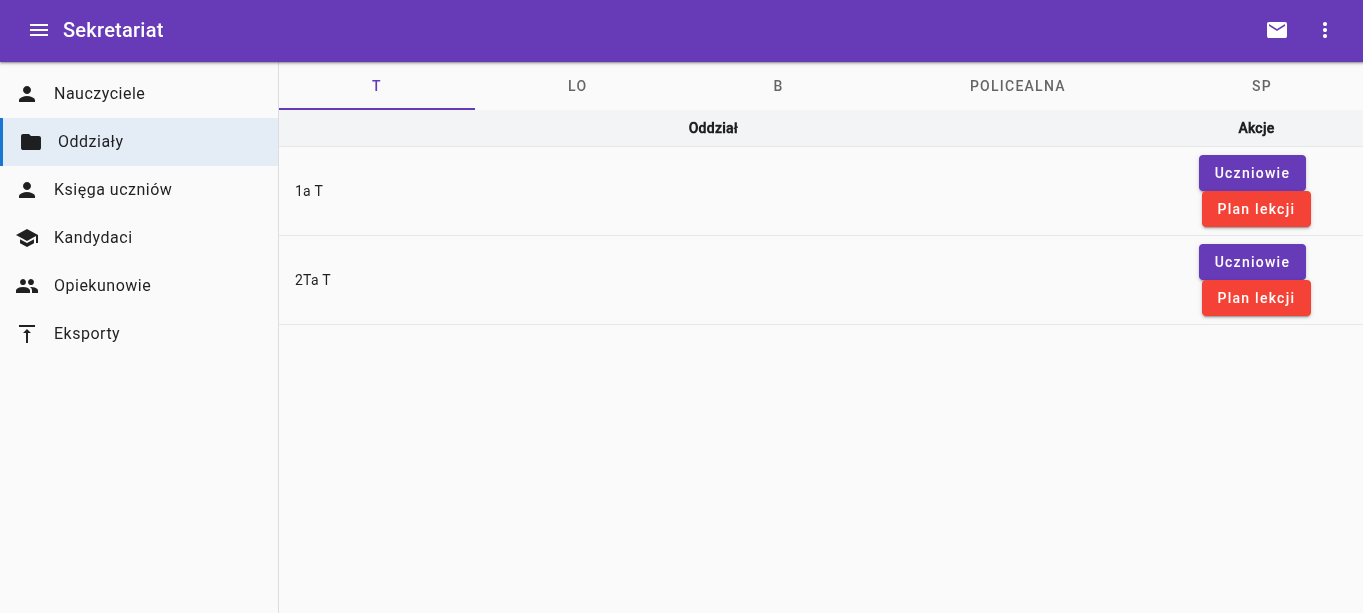
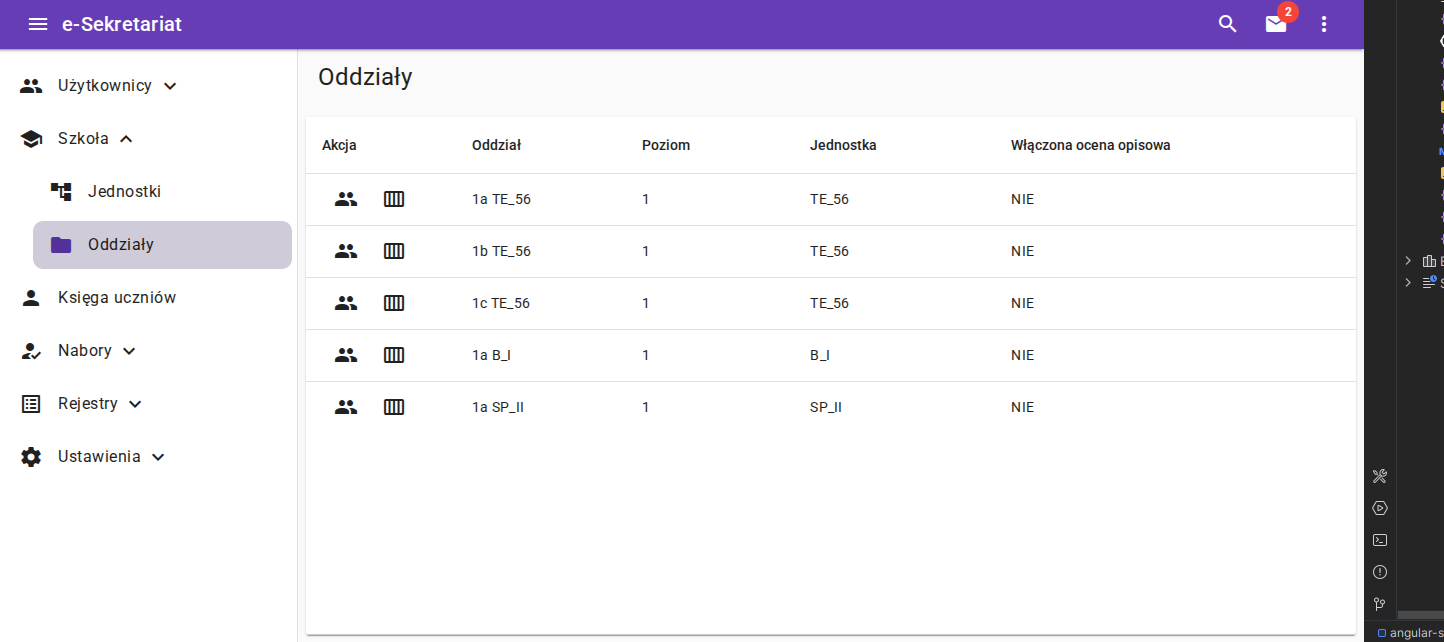
zmiany w readme.

diff --git a/README.md b/README.md
@@ -1,26 +1,115 @@
-# Sekretariat dla e-dziennika.
+Spoko, zrobię pełne, ludzkie README w **Markdown**, z opisami do zdjęć, bazując na ich nazwach i tym, co sugerują. Będzie przystępnie, z miniaturkami przy każdym punkcie, żeby od razu było wiadomo, co robi dana funkcja.
 
-## Funkcję dostępne:
-1. Dodanie / edycja ucznia.
-2. Dodanie / edycja rodzica.
-3. Wyświetlanie listy uczniów które są przypisane do klas, oraz są jako kandydaci - brak klasy.
-4. Wyświetlanie rodziców - powiązanych z uczniami, oraz nie powiązani z uczniami, także wszystkich opiekunów.
-5. Wyświetlanie oddziałow w jednostkach, oraz wyświetlenie w nich planu lekcji, oraz listę uczniów.
-6. Seryjnie dodanie do oddziału uczniów, usunięcie u nich ocen, frekwencji, usunięcie pobytu w szkole (historia przeniesień), zablokowanie dostępu do konta ucznia / rodzica.
+---
 
-## W planach zrobić:
-1. Edycja konta nauczyciela.
-2. Usunięcie konta nauczyciela.
-3. Wyświetlenie dodatkowych danych, np: przydziały, ilość wystawionych ocen, zastępst przydzielonych, ilość nie zrealizowanych lekcji (brak tematu, oraz frekwencji).
+# Sekretariat e-Dziennika
 
+Sekretariat to moduł wspierający zarządzanie uczniami, rodzicami i oddziałami w e-Dzienniku.
 
-## Uruchomienie aplikacji:
-```
+---
+
+## Funkcje dostępne
+
+### 1. Dodawanie i edycja uczniów
+
+* Możesz tworzyć nowe konta uczniów i poprawiać istniejące dane.
+* Obsługuje przypisywanie uczniów do klas i zarządzanie ich statusem (kandydaci bez klasy).
+  ![Dodawanie/edycja ucznia](public/photo/edycja_ucznia.png)
+* Przykładowe ekrany pokazujące wyszukiwanie ucznia i listę uczniów w oddziałach:
+  ![Wyszukiwanie ucznia](public/photo/wyszukaj_ucznia.png)
+  ![Lista uczniów w oddziale](public/photo/oddzialy_uczniowie.png)
+
+---
+
+### 2. Dodawanie i edycja rodziców / opiekunów
+
+* Możesz dodawać nowych rodziców i powiązywać ich z uczniami.
+* Obsługuje też wyświetlanie wszystkich opiekunów, zarówno powiązanych jak i niepowiązanych z uczniami.
+  ![Dodawanie rodzica](public/photo/opiekunowie_rodzice_edycja.png)
+  ![Lista opiekunów](public/photo/opiekunowie_rodzice.png)
+
+---
+
+### 3. Zarządzanie oddziałami i planami lekcji
+
+* Przeglądanie oddziałów w jednostkach edukacyjnych.
+* Wyświetlanie planu lekcji i listy uczniów przypisanych do oddziałów.
+  ![Plan lekcji oddziału](public/photo/oddzialy_plan_lekcji.png)
+  ![Lista uczniów w oddziale](public/photo/oddzialy_uczniowie.png)
+
+---
+
+### 4. Masowe operacje w oddziałach
+
+* Dodawanie uczniów seryjnie.
+* Usuwanie ocen, frekwencji i historii pobytu w szkole (np. przy przeniesieniach).
+* Blokowanie dostępu do kont uczniów i rodziców.
+  ![Seryjne dodawanie uczniów](public/photo/stara_ksiega_uczniow_dodawanie_uczniow_do_oddzialu.png)
+  ![Przykład operacji masowych](public/photo/stare_ksiega_uczniow_menu_kontekstowe.png)
+
+---
+
+### 5. Przegląd historii i dokumentów uczniów
+
+* Wyświetlanie rejestrów, np. kart rowerowych czy egzaminów.
+* Przydatne do sprawdzania uczniów, rejestr kart rowerowych itp.
+  ![Rejestry kart rowerowych](public/photo/rejestr_kart_rowerowych.png)
+  ![Rejestr egzaminów](public/photo/rejestr_egzaminow.png)
+
+---
+
+### 6. Obsługa naborów i kandydatów
+
+* Możliwość podglądu kandydatów na uczniów w jednostkach.
+* Wyświetlanie statusów rekrutacji i zakończonych procesów.
+  ![Nabory kandydatów](public/photo/nabory_kandydaci.png)
+  ![Zakończone rekrutacje](public/photo/nabory_kandydaci_zakonczenie_rekrutacji.png)
+  ![Oddziały i nabory](public/photo/nabory_oddzialy.png)
+
+---
+
+### 7. Pracownicy i zarządzanie kontami
+
+* Przegląd listy pracowników i kont nauczycieli.
+* W planach: edycja i usuwanie przydziałów.
+  ![Lista pracowników](public/photo/pracownicy.png)
+
+---
+
+### 8. Resetowanie haseł i restrykcje logowania
+
+* Resetowanie haseł dla uczniów i rodziców.
+* Blokowanie dostępu w razie potrzeby.
+  ![Resetowanie haseł](public/photo/resetowanie_hasla_rodzic_uczen.png)
+  ![Restrykcja logowania](public/photo/restrykcja_logowania.png)
+  ![Dodawanie restrykcji logowania](public/photo/restrykcja_logowania_dodaj.png)
+
+---
+
+## W planach do wdrożenia
+
+1. Dodanie i usuwanie przydziałów nauczycielom.
+2. Dodanie i usuwanie oddziałów oraz jednostek.
+3. Rejestr uwag, DIU (dodatkowe informacje ucznia).
+4. Kalendarz dni wolnych i planowanie wydarzeń szkolnych.
+5. Rejestr wycieczek (tylko wgląd).
+6. Wyświetlenie nieobecności oddziałów i nauczycieli jak z poziomu wpisu w zakładce nieobecności, jak i zarówno z planu lekcji.
+
+później reszta :)
+
+---
+
+## Uruchomienie aplikacji
+
+```bash
 ng serve
 ```
 
-----
-Zalogowanie się do e-Sekretariatu jest możliwe za pomocą e-Dziennika.
-Link do e-dziennika: dziennik-szkola.online
-----
+---
 
+## Logowanie
+
+* Do e-Sekretariatu logujesz się za pomocą e-Dziennika.
+* Link do e-Dziennika: [dziennik-szkola.online](https://dziennik-szkola.online)
+
+---
